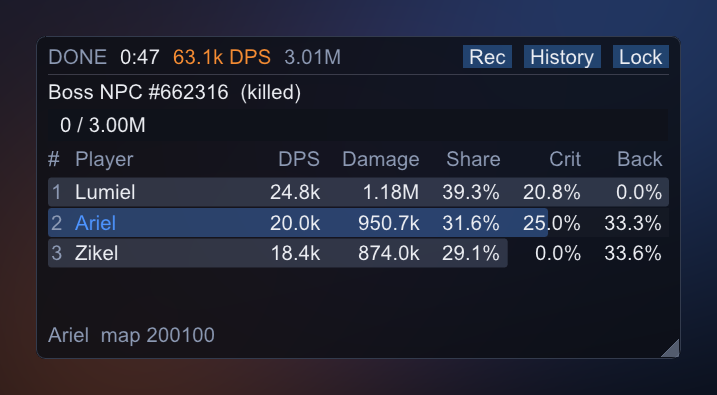
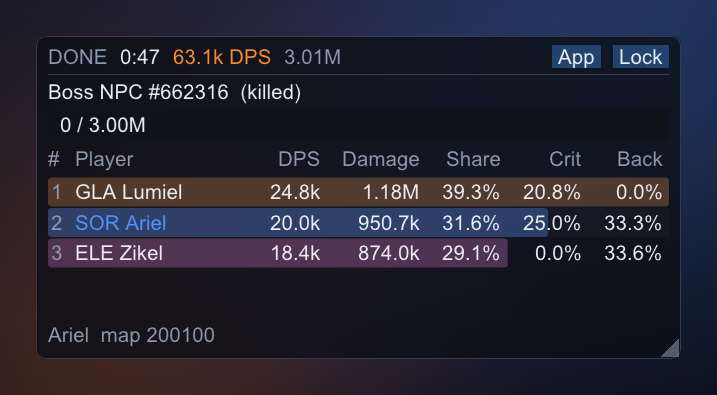
docs: the app window and the live-only overlay
README: what the meter shows (the game's Combat Analysis numbers for every
party member), the app window's pictures in place of the overlay's History
tab, the quick start and troubleshooting for the new windows, and the
Lucide (ISC) and skill-name sources. make screenshots re-renders the overlay
pictures and adds the app window's Damage and Settings pages.

decode-capture: compare the breakdowns with the game's Ctrl+X window, and
look for what the meter cannot show yet (misses, multi-hit, block,
invincible, endurance, regeneration).

Changed region(s): [[0.0614, 0.4253, 0.9512, 0.6987], [0.6444, 0.0911, 0.8285, 0.1823]]

diff --git a/README.md b/README.md
@@ -7,10 +7,15 @@
 
 **A party DPS meter for AION 2 that draws on top of the game, without touching it.**
 
-It reads the game's own network traffic as it reaches your PC, works out who hit what
-for how much, and shows your party's damage, the boss's HP and the fight timer in a
-small see-through window over the game. Boss fights are saved so you can look back at
-them.
+It reads the game's own network traffic as it reaches your PC and works out who hit
+what, with which skill, for how much. It shows what the game's own Combat Analysis
+window (Ctrl+X) shows, but for every party member:
+
+- **An overlay** over the game with the live fight: the party ranked by DPS, the boss's
+  HP and the fight timer. It can show only in combat.
+- **An app window** with the details: damage, hit counts, crit, perfect, double, back
+  and front rates for each player and each of their skills; healing; damage taken; and
+  every saved fight, grouped by visit to a map. Every setting is there too.
 
 ![The overlay during a boss fight: three players ranked by DPS, the boss's HP bar and the fight timer](docs/images/overlay-live.png)
 
@@ -70,8 +75,8 @@ telemetry.
    check it against `SHA256SUMS.txt`, and unzip it anywhere.
 3. **Set the game to Borderless Windowed.** An exclusive fullscreen game hides every
    other window, this one included.
-4. **Run `aion2-combat-meter.exe`.** It sits in the tray, and the overlay shows up in
-   the top-left corner. Hit something.
+4. **Run `aion2-combat-meter.exe`.** The app window opens, the overlay shows up in the
+   top-left corner, and the meter sits in the tray. Hit something.
 
 The exe is not code-signed, so SmartScreen or antivirus software may warn about it.
 Capture tools often get flagged. CI builds every release from source, and the zip's
@@ -124,7 +129,9 @@ history and recordings folders, `config.json` and the log.
 - Out of a party, every player hitting enemies is listed.
 - In a party, only its members are listed. Pets and summons count for their owner.
 
-![The History tab: saved fights above, the selected fight's ranking below](docs/images/overlay-history.png)
+![The app window's Combat Meter page: saved fights by map visit on the left, the selected fight's ranking with the in-game window's hit columns, and one player's skills below](docs/images/app-damage.png)
+
+![The Combat Meter page's Settings tab: the overlay, its visibility, fight tracking and saved fights](docs/images/app-settings.png)
 
 ## ⚙ Configuration
 
@@ -212,7 +219,9 @@ run the meter as administrator.
   and run `aion2meter-replay` on it. It lists every flow it decoded as the game.
 
 **I can't see the overlay in game**
-Use Borderless Windowed. If it is hidden, press Ctrl+Alt+H.
+Use Borderless Windowed. If it is hidden, press Ctrl+Alt+H. Shown only in combat, or
+hidden while the game is not in front (its Visibility settings), a locked overlay
+stays out of sight until those allow it; unlock it (Ctrl+Alt+L) to see it at once.
 
 **My party shows as #12345 instead of names**
 The game sends names mostly on loading screens. Start the meter before you log in or
@@ -263,7 +272,7 @@ Other targets:
 | `make asan` | The tests under AddressSanitizer and UBSan. |
 | `make replay` | Builds `./aion2meter-replay`. |
 | `make fixtures` | Replays your own captures in `tests/fixtures/local/` and diffs each against its `.expected.txt`. |
-| `make screenshots` | Re-renders `docs/images` from the overlay's own drawing code. Needs zlib; set `SHOTS_FONT` off macOS. |
+| `make screenshots` | Re-renders `docs/images` from the overlay's and the app window's own drawing code. Needs zlib; set `SHOTS_FONT` and `SHOTS_BOLD_FONT` off macOS. |
 | `make golden` | Rewrites the replay smoke test's reference after an intended change. |
 
 **Windows (the app):** Visual Studio 2022 and CMake 3.22 or newer.
@@ -322,5 +331,8 @@ the GPL meters.
 
 ## License
 
-MIT, see [LICENSE](LICENSE). Dear ImGui is MIT (`src/third_party/imgui/LICENSE.txt`).
+MIT, see [LICENSE](LICENSE). Dear ImGui is MIT (`src/third_party/imgui/LICENSE.txt`). The
+app window's icons are a subset of [Lucide](https://lucide.dev) (ISC), embedded in
+`src/app/include/app/ui/icons_font.inl` by `tools/embed_icon_font.py`. Skill names come
+from aion2.app's skill database (see `src/meter/data/skills.tsv`).
 AION 2 is a trademark of NCSOFT. This project is not affiliated with NCSOFT.

diff --git a/.claude/skills/decode-capture/SKILL.md b/.claude/skills/decode-capture/SKILL.md
@@ -19,7 +19,9 @@ teleport. Ask for the facts that make it checkable:
 - the character's name and class;
 - a few hit numbers seen on screen;
 - the boss's name and roughly when it died;
-- the game's own personal DPS meter reading for that fight, if possible.
+- the game's own Combat Analysis window (Ctrl+X) for that fight, ideally a screenshot of
+  its Detailed Mode: time, DPS, total damage, Total Heal, and per skill HIT, ACC, CRI,
+  PERF, DOUB, FRNT, BACK, MULT, BLOC, IMMU, ENDR and RSTO.
 
 Put it in `tests/fixtures/local/<name>.pcapng`.
 
@@ -71,6 +73,16 @@ each hit on a mob: the target's exact HP. Each drop should match the damage reco
 since the last line. In the first capture it was a steady multiple of the damage instead
 (4.5 for one player), and extra-hit values never counted. Recheck this on every capture.
 Comparing whole fights works too: a mob that dies took its max HP.
+
+**Check the breakdowns against the game's window.** `aion2meter-replay --skills` prints
+each player's skills, healing and damage taken. For the local player, its skill rows
+should match the Ctrl+X window's: names, hits, and the CRI, PERF, DOUB, BACK and FRNT
+shares. Then look for what the meter cannot show yet, since the game's window counts it:
+- **ACC (misses):** a damage record with amount 0, or a damage type other than 3 (crit).
+- **MULT (multi-hit):** the switch-0x20 tail. Do its counts match MULT?
+- **BLOC, IMMU, ENDR, RSTO:** the target's defensive outcomes, likely in the damage
+  type or the block's unknown bytes.
+Whatever is found goes into `parse_damage`, `HitCounts`, the tables and AGENTS.md.
 
 `--unknown` dumps every opcode the parser does not read.
 
